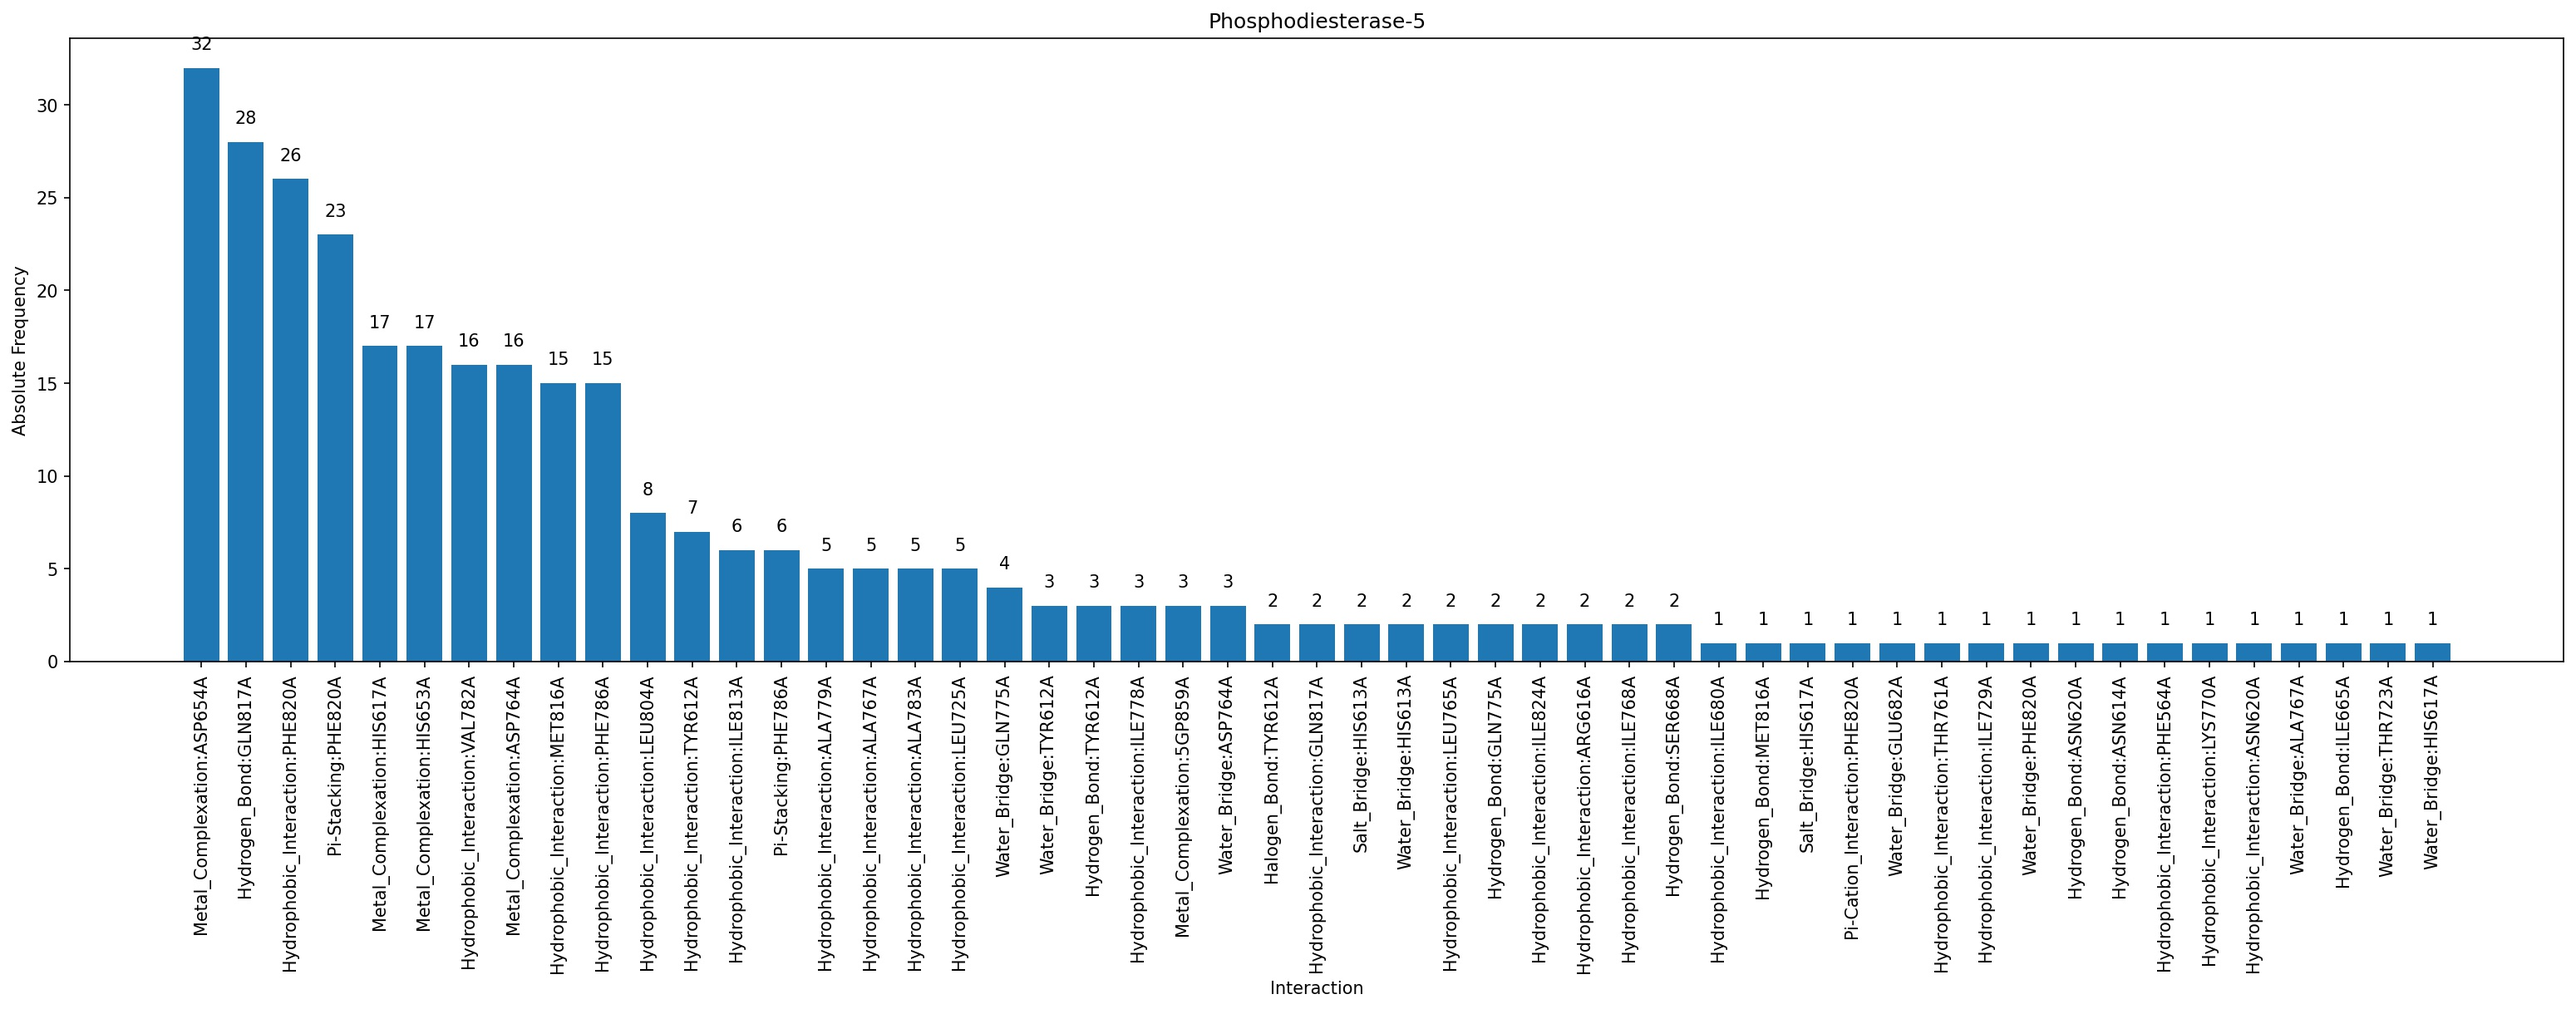
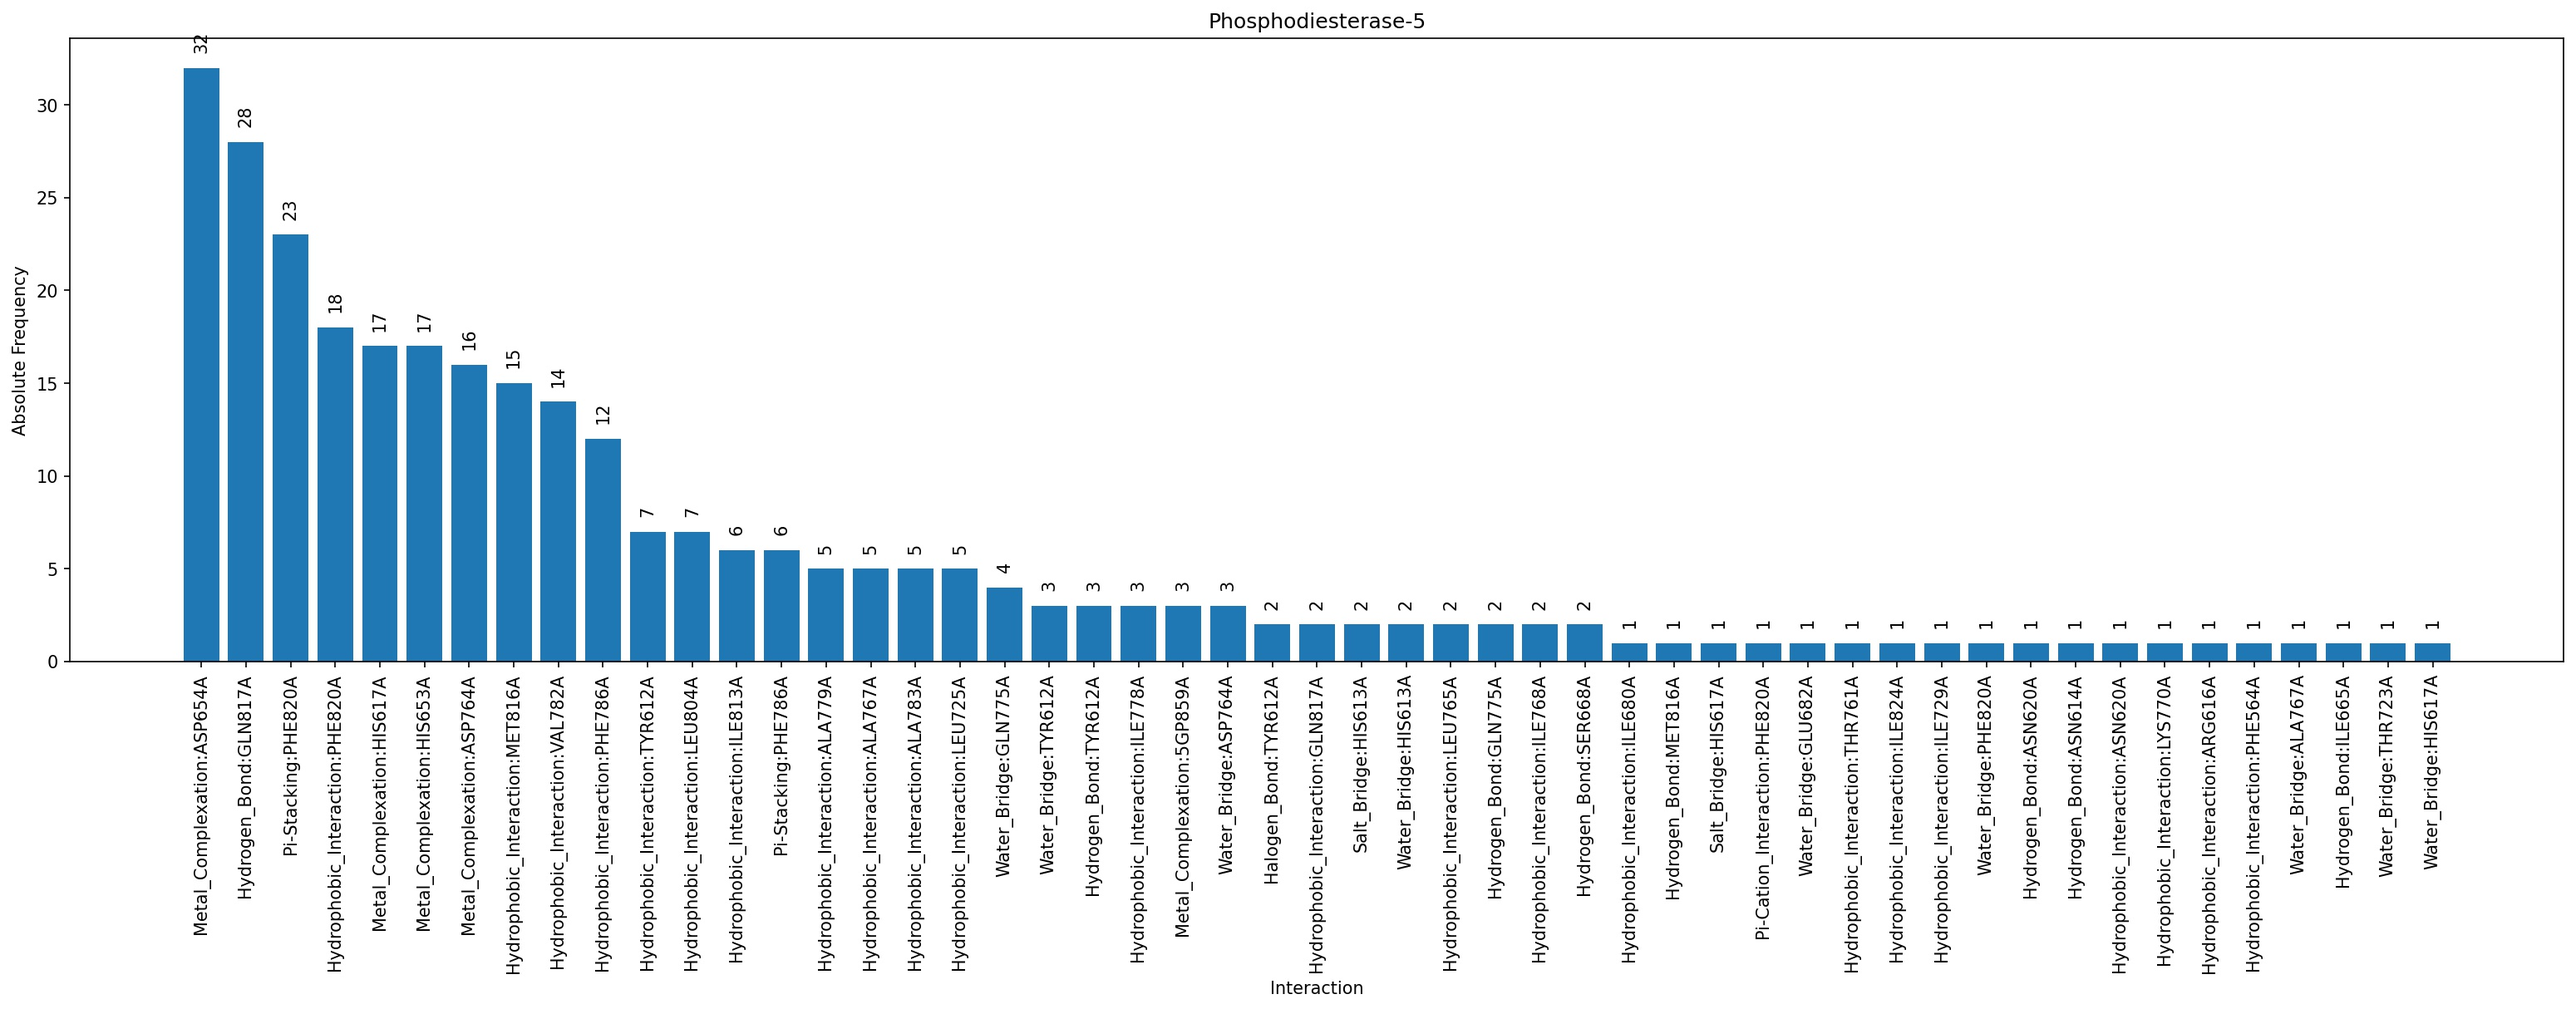
bump PDE5 results to newer version

diff --git a/data/phosphodiesterase-5/plip_analysis.py b/data/phosphodiesterase-5/plip_analysis.py
@@ -22,13 +22,21 @@ if __name__ == '__main__':
     PDB_ENTRIES = list(df["PDB_ENTRY"])
     print("First 5 PDB entries:")
     print(PDB_ENTRIES[:5])
-    result = pa(PDB_ENTRIES, path = "structures")
+    result = pa(PDB_ENTRIES, path = "structures", normalize = False)
     r = result.save("results/phosphodiesterase-5")
     print("Result saved in:")
     print(r)
     r = result.to_csv("results/phosphodiesterase-5_freq.csv")
     result.plot("Phosphodiesterase-5", filename = "results/phosphodiesterase-5.jpg")
     result.plot("Phosphodiesterase-5", filename = "results/phosphodiesterase-5.png")
+    # normalized results
+    result = pa(PDB_ENTRIES, path = "structures", normalize = True)
+    r = result.save("results/phosphodiesterase-5_normalized")
+    print("Result saved in:")
+    print(r)
+    r = result.to_csv("results/phosphodiesterase-5_normalized_freq.csv")
+    result.plot("Phosphodiesterase-5", filename = "results/phosphodiesterase-5_normalized.jpg")
+    result.plot("Phosphodiesterase-5", filename = "results/phosphodiesterase-5_normalized.png")
 
     # clean up
     os.remove("PLIPAnalyzer.py")
